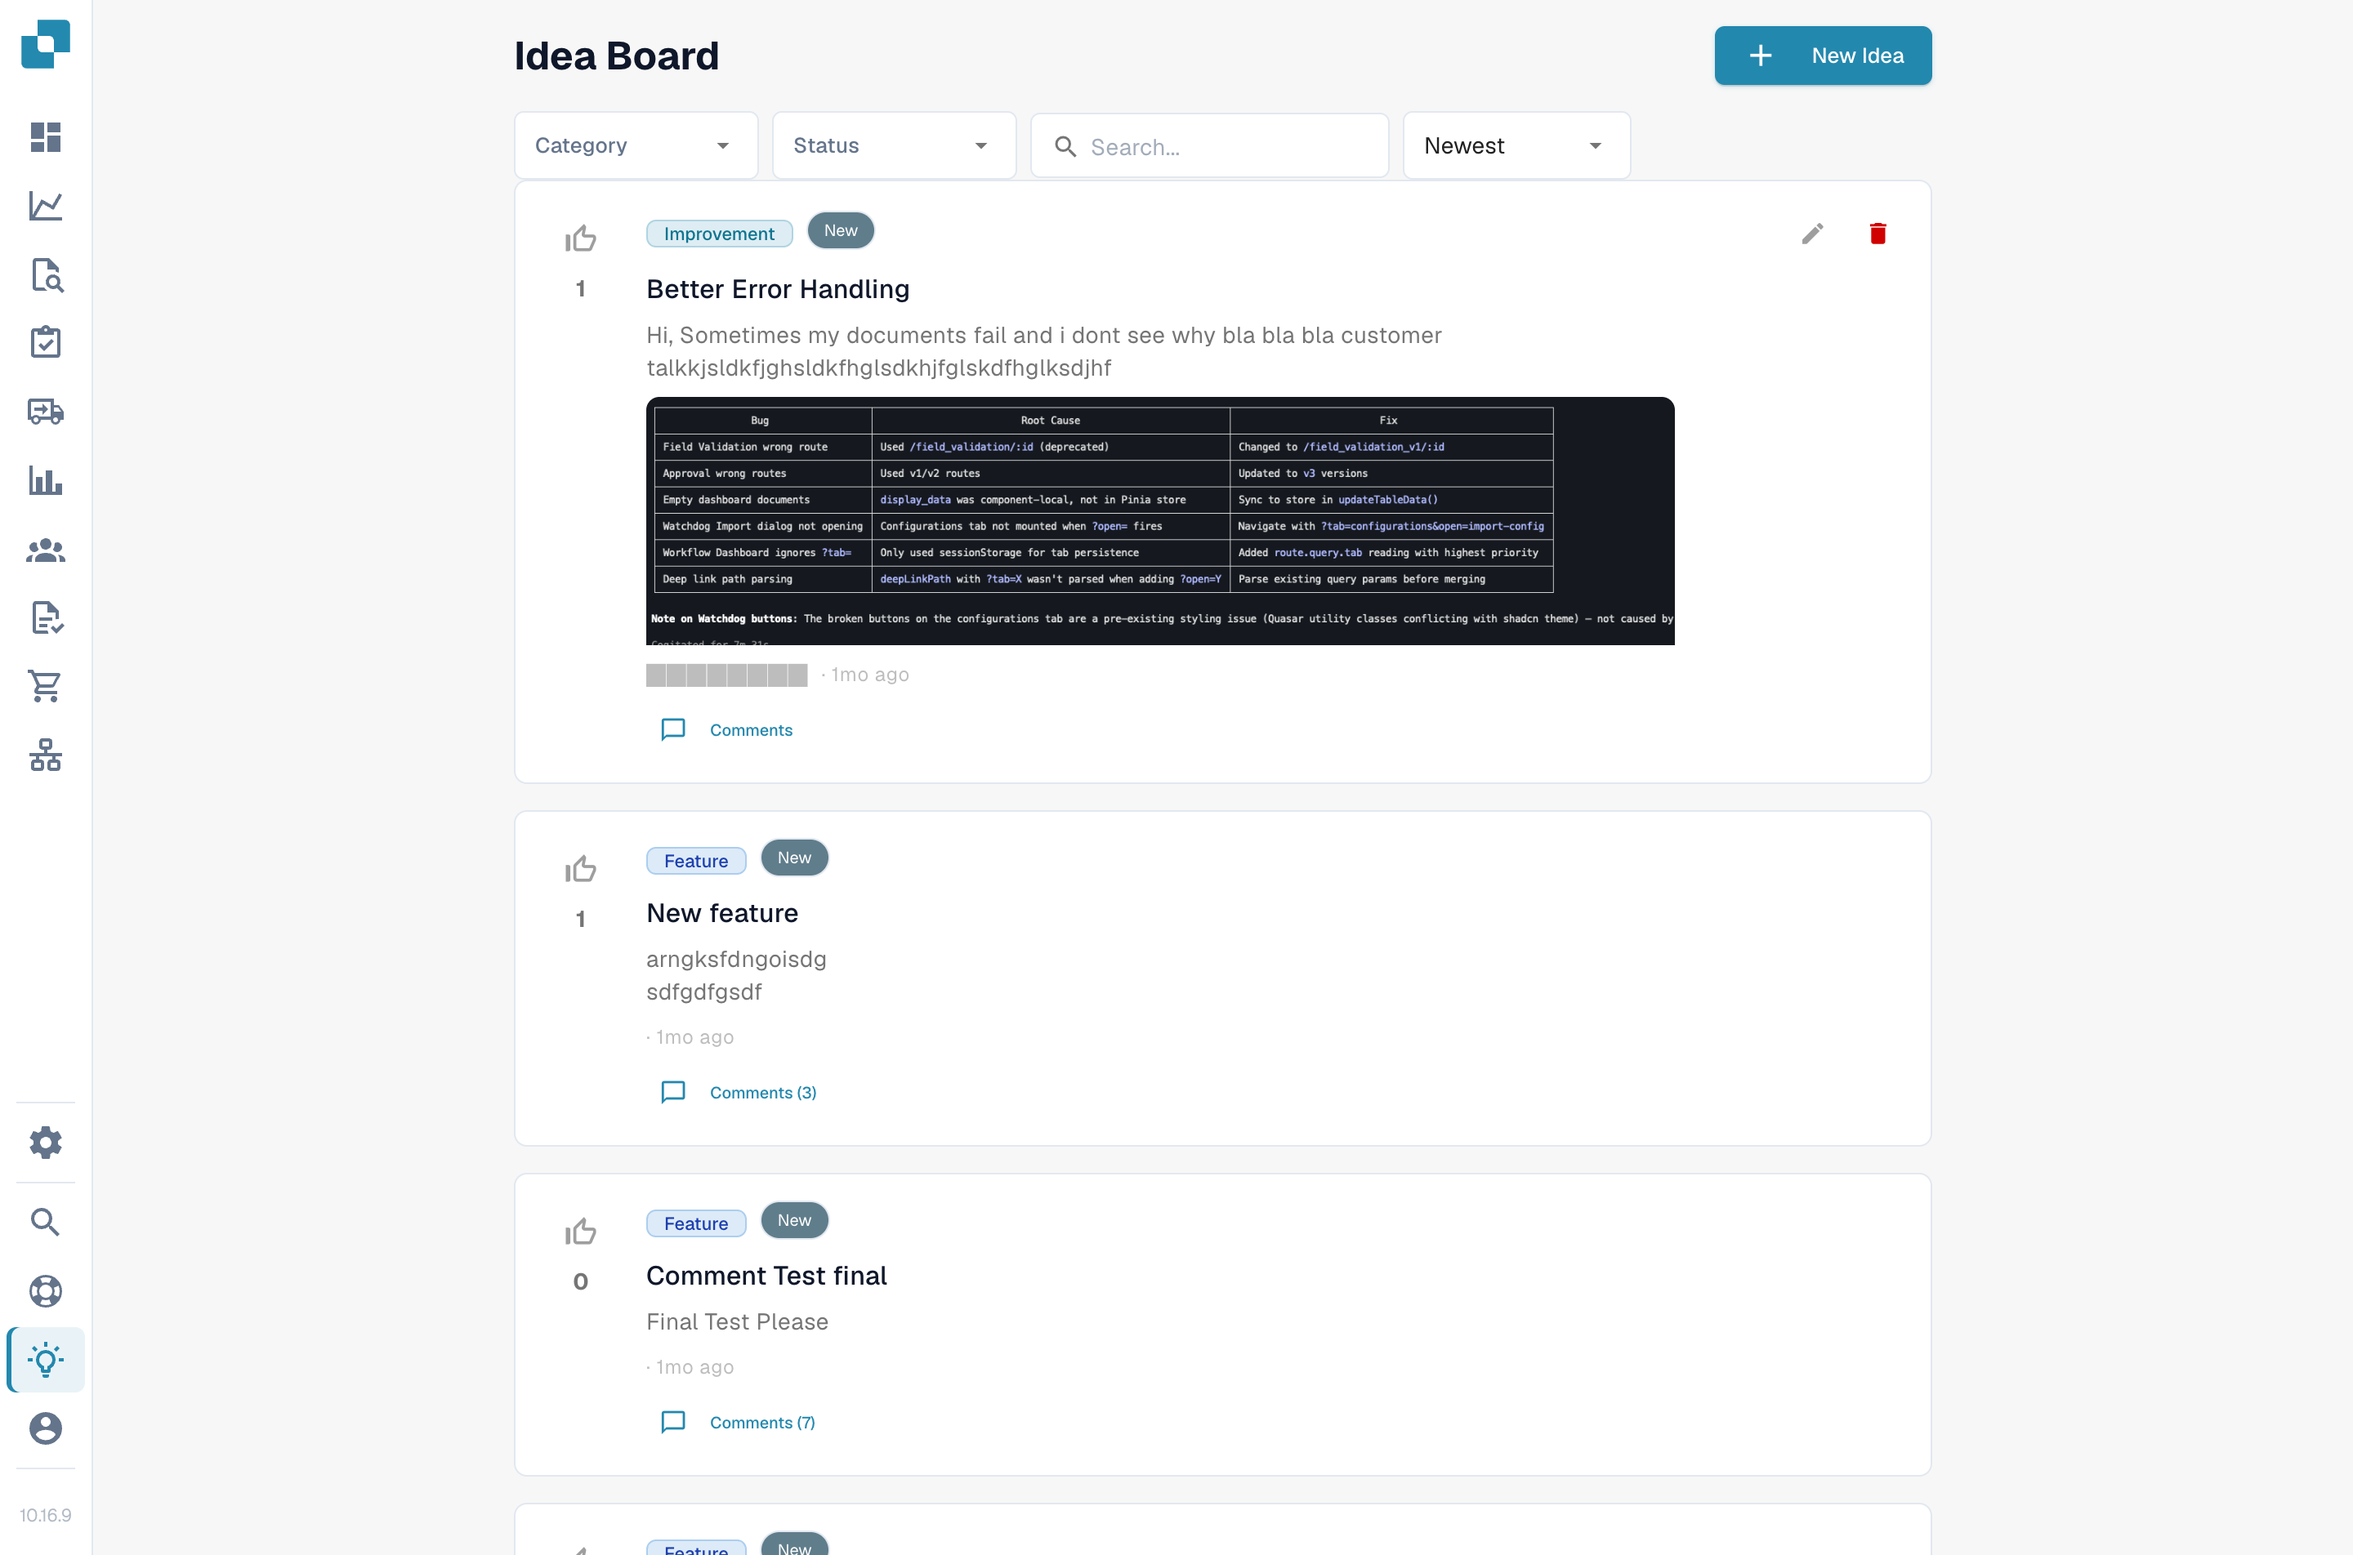
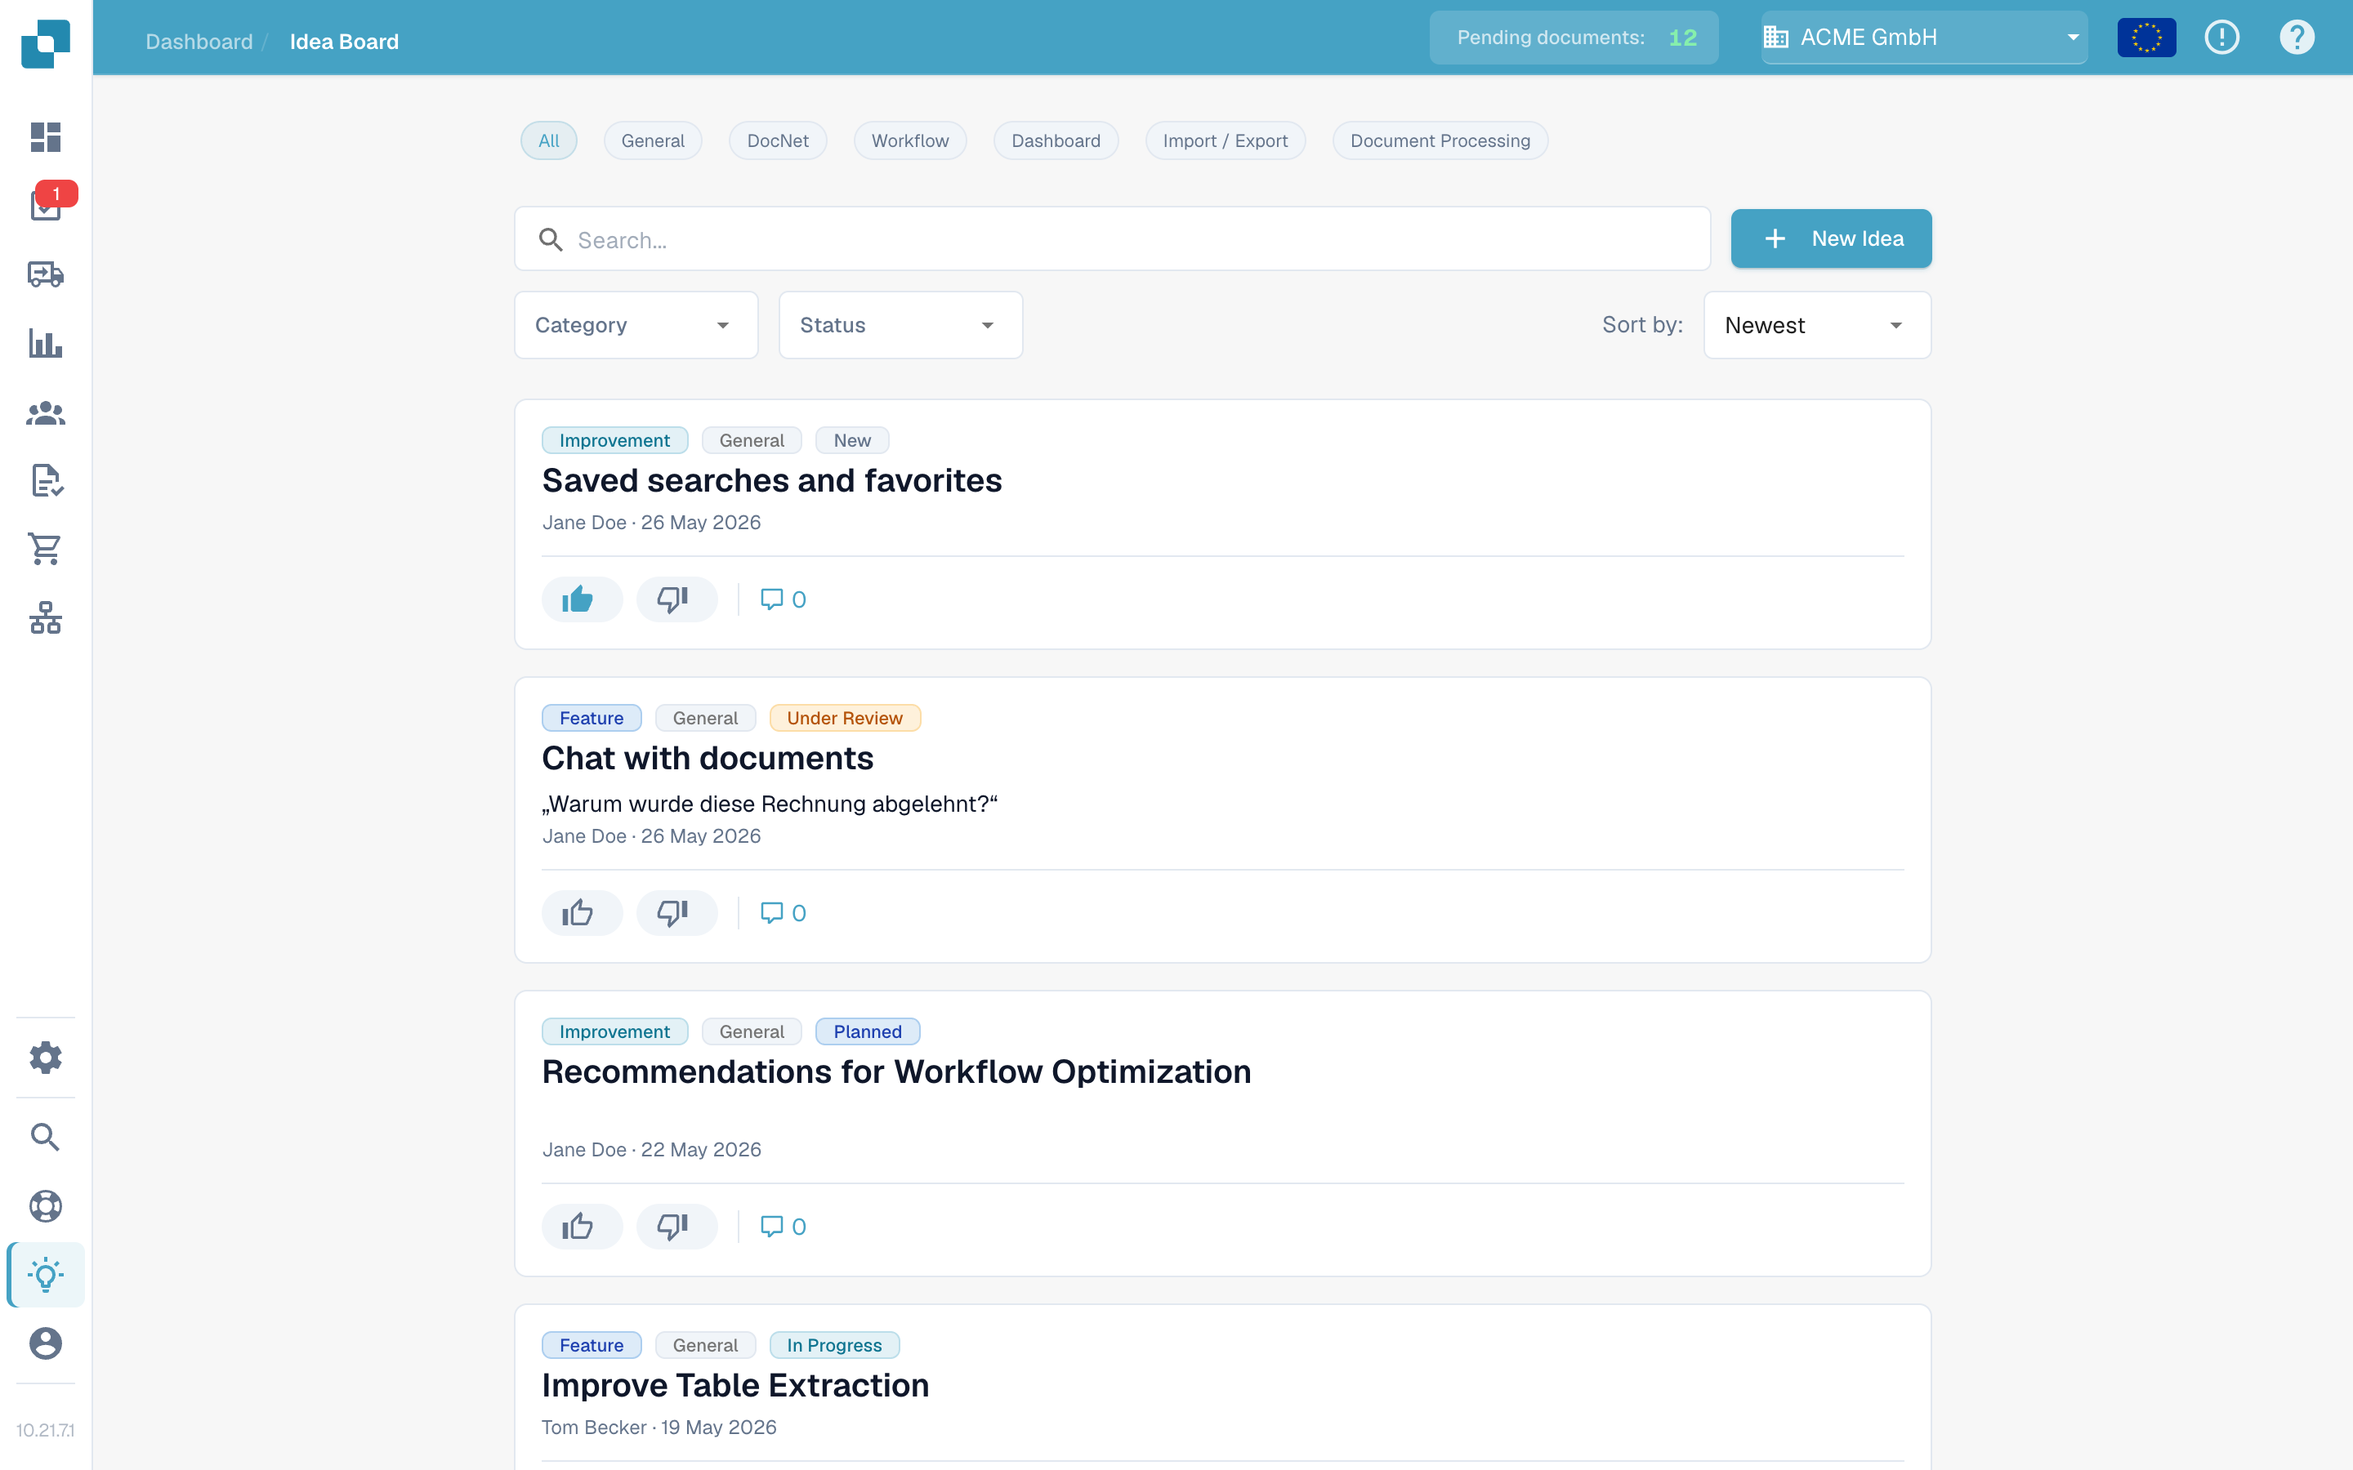
[Docs_IdeaBoard] [DOCB-10855] update Idea Board (DE) for channels + split voting

diff --git a/readme/end-user-and-partner-section/end-user-section/idea-board.md b/readme/end-user-and-partner-section/end-user-section/idea-board.md
@@ -1,23 +1,28 @@
 # Ideenboard
 
-Das Ideenboard ist der Ort, an dem Funktionswünsche eingereicht, fehlende Funktionen gemeldet und Vorschläge mit Stimmen versehen werden, um dem Produktteam Prioritäten zu signalisieren. Ideen sind für alle in Ihrer Organisation sichtbar, mit Kommentaren und Abstimmung.
+Das Ideenboard ist der Ort, um Funktionswünsche einzureichen, fehlende Funktionen zu melden und darüber abzustimmen, was das Produktteam als Nächstes umsetzen soll. Ideen sind nach Kanal organisiert und für alle in Ihrer Organisation sichtbar, mit Kommentaren und Abstimmung.
 
 ## Aufrufen
 
 Öffnen Sie die Seitenleiste und klicken Sie auf **Ideen** oder navigieren Sie direkt zu `/ideas`.
 
-<figure><img src="../../.gitbook/assets/idea-board-overview.png" alt="Übersicht Ideenboard"><figcaption><p>Das Ideenboard listet aktuelle Ideen mit Stimmen, Kategorie und Status.</p></figcaption></figure>
+<figure><img src="../../.gitbook/assets/idea-board-overview.png" alt="Übersicht Ideenboard"><figcaption><p>Das Ideenboard mit Kanal-Chips, Filtern und Ideenkarten.</p></figcaption></figure>
+
+## Kanäle
+
+Am oberen Rand des Boards befindet sich eine Reihe von Kanal-Chips: **Alle**, **Allgemein**, **DocNet**, **Workflow**, **Dashboard**, **Import / Export** und **Verarbeitung von Dokumenten**. Klicken Sie auf einen Chip, um nur die Ideen aus diesem Produktbereich anzuzeigen; **Alle** hebt den Kanalfilter auf. Jede Idee gehört zu genau einem Kanal, der als Abzeichen auf ihrer Karte angezeigt wird.
 
 ## Ideen durchstöbern
 
 Jede Idee wird als Karte mit folgenden Angaben angezeigt:
 
-* Titel und eine Beschreibung im Rich-Text-Format (Bilder werden eingebettet).
-* Eine Schaltfläche zum Abstimmen mit aktueller Stimmenanzahl.
-* Ein Kategorie-Abzeichen — Funktion, Verbesserung, Fehler, Integration oder Sonstiges.
+* Titel und eine Beschreibung im Rich-Text-Format, die Bilder enthalten kann.
+* Getrennte Schaltflächen für **Zustimmung** und **Ablehnung**, jeweils mit eigener Zählung.
+* Ein Kategorie-Abzeichen — Feature, Verbesserung, Fehler, Integration oder Sonstiges.
+* Ein Kanal-Abzeichen — Allgemein, DocNet, Workflow, Dashboard, Import / Export oder Verarbeitung von Dokumenten.
 * Einen Status — Neu, In Prüfung, Geplant, In Bearbeitung, Erledigt oder Abgelehnt.
 * Name und Organisation der einreichenden Person sowie ein relativer Zeitstempel.
-* Einen Umschalter für Kommentare, der den Diskussionsverlauf unter der Karte ein- und ausklappt.
+* Einen Umschalter für Kommentare, der den Diskussionsverlauf unter der Karte aufklappt.
 
 Eine Seitennavigation am unteren Listenende blättert zwischen Seiten.
 
@@ -26,32 +31,36 @@ Eine Seitennavigation am unteren Listenende blättert zwischen Seiten.
 Klicken Sie im Kopfbereich auf **Neue Idee**. Der Dialog fragt nach:
 
 * **Titel** — ein kurzer, beschreibender Name für die Idee.
-* **Beschreibung** — ein Rich-Text-Editor mit Fett, Kursiv, Unterstrichen, Durchgestrichen, Listen und Links. Sie können Bilder direkt in die Beschreibung einfügen oder hochladen.
-* **Kategorie** — wählen Sie die passendste. Das Produktteam nutzt diese Information, um Ideen zu sortieren.
+* **Beschreibung** — ein optionaler Rich-Text-Editor mit Fett, Kursiv, Unterstrichen, Durchgestrichen, Listen und Links. Sie können auch Bilder hinzufügen: direkt einfügen oder über die Schaltfläche **Bild hinzufügen** in die Beschreibung einbetten.
+* **Kategorie** — wählen Sie die passendste. Das Produktteam nutzt diese Information, um Ideen zuzuordnen.
+* **Kanal** — der Produktbereich, zu dem die Idee gehört.
 
 Drücken Sie **Absenden**, um zu veröffentlichen. Die Idee erscheint mit dem Status **Neu** in der Liste.
 
+<figure><img src="../../.gitbook/assets/idea-board-new-idea.png" alt="Dialog Neue Idee"><figcaption><p>Der Dialog „Neue Idee" mit Kategorie- und Kanalauswahl.</p></figcaption></figure>
+
 ## Abstimmen
 
-Klicken Sie auf einer beliebigen Karte auf die Stimm-Schaltfläche, um eine Stimme abzugeben. Erneutes Klicken entfernt Ihre Stimme. Die Stimmenanzahl bestimmt die Sortierung **Meiste Stimmen** und signalisiert dem Produktteam Nachfrage.
+Jede Idee hat getrennte Schaltflächen für **Zustimmung** und **Ablehnung**, jeweils mit eigener Zählung. Klicken Sie auf eine Schaltfläche, um Ihre Stimme abzugeben, klicken Sie erneut darauf, um sie zu entfernen, oder klicken Sie auf die gegenüberliegende, um zu wechseln. Stimmen signalisieren dem Produktteam die Nachfrage und fließen in die Sortierungen **Heiß** und **Top-Bewertung** ein.
 
 ## Kommentieren
 
-Öffnen Sie den Kommentarbereich einer Idee, um Fragen zu stellen, Kontext zu ergänzen oder Workarounds zu teilen. Sie können Ihre eigenen Kommentare bearbeiten und löschen. Die einreichende Person und Administratoren können zudem Kommentare löschen, um Diskussionen beim Thema zu halten.
+Öffnen Sie den Kommentarbereich einer Idee, um Fragen zu stellen, Kontext zu ergänzen oder Workarounds zu teilen. Sie können Kommentare mit Zustimmung oder Ablehnung bewerten (aber nicht Ihre eigenen) und von Ihnen verfasste Kommentare löschen. Die einreichende Person und Administratoren können zudem Kommentare löschen, um Diskussionen beim Thema zu halten.
 
 ## Filtern und Sortieren
 
-Über der Liste finden Sie:
+Über der Liste können Sie kombinieren:
 
-* Ein Suchfeld, das in Titel und Beschreibung sucht.
-* Eine Kategorie-Auswahl.
-* Eine Status-Auswahl.
-* Eine Sortierung — **Neueste** oder **Meiste Stimmen**.
+* die **Kanal**-Chips.
+* ein Suchfeld, das in Titel und Beschreibung sucht.
+* eine Kategorie-Auswahl.
+* eine Status-Auswahl.
+* einen Sortierwähler — **Neueste**, **Heiß** oder **Top-Bewertung**.
 
-Die Filter werden kombiniert, sodass Sie zum Beispiel in drei Klicks auf "Meiste Stimmen Verbesserungen, die in Prüfung sind" eingrenzen können.
+Die Filter werden kombiniert, sodass Sie zum Beispiel mit wenigen Klicks auf „Top-bewertete Verbesserungen in Prüfung" eingrenzen können.
 
 ## Eigene Ideen bearbeiten oder löschen
 
-Das Menü auf einer Karte (Drei-Punkte-Schaltfläche) erlaubt es Ihnen, eine von Ihnen eingereichte Idee zu bearbeiten oder zu löschen. Sobald das Produktteam den Status einer Idee von **Neu** auf einen anderen Wert geändert hat, ist das Bearbeiten von Titel und Kategorie gesperrt — kommentieren Sie die Idee stattdessen.
+Das Menü auf einer Karte (Drei-Punkte-Schaltfläche) erlaubt es Ihnen, eine von Ihnen eingereichte Idee zu bearbeiten oder zu löschen.
 
 <mark>Das Ideenboard ist für Produktrückmeldungen gedacht, nicht für Vorfallsmeldungen. Verwenden Sie ein Support-Ticket für Probleme, die Ihre Arbeit heute blockieren.</mark>
